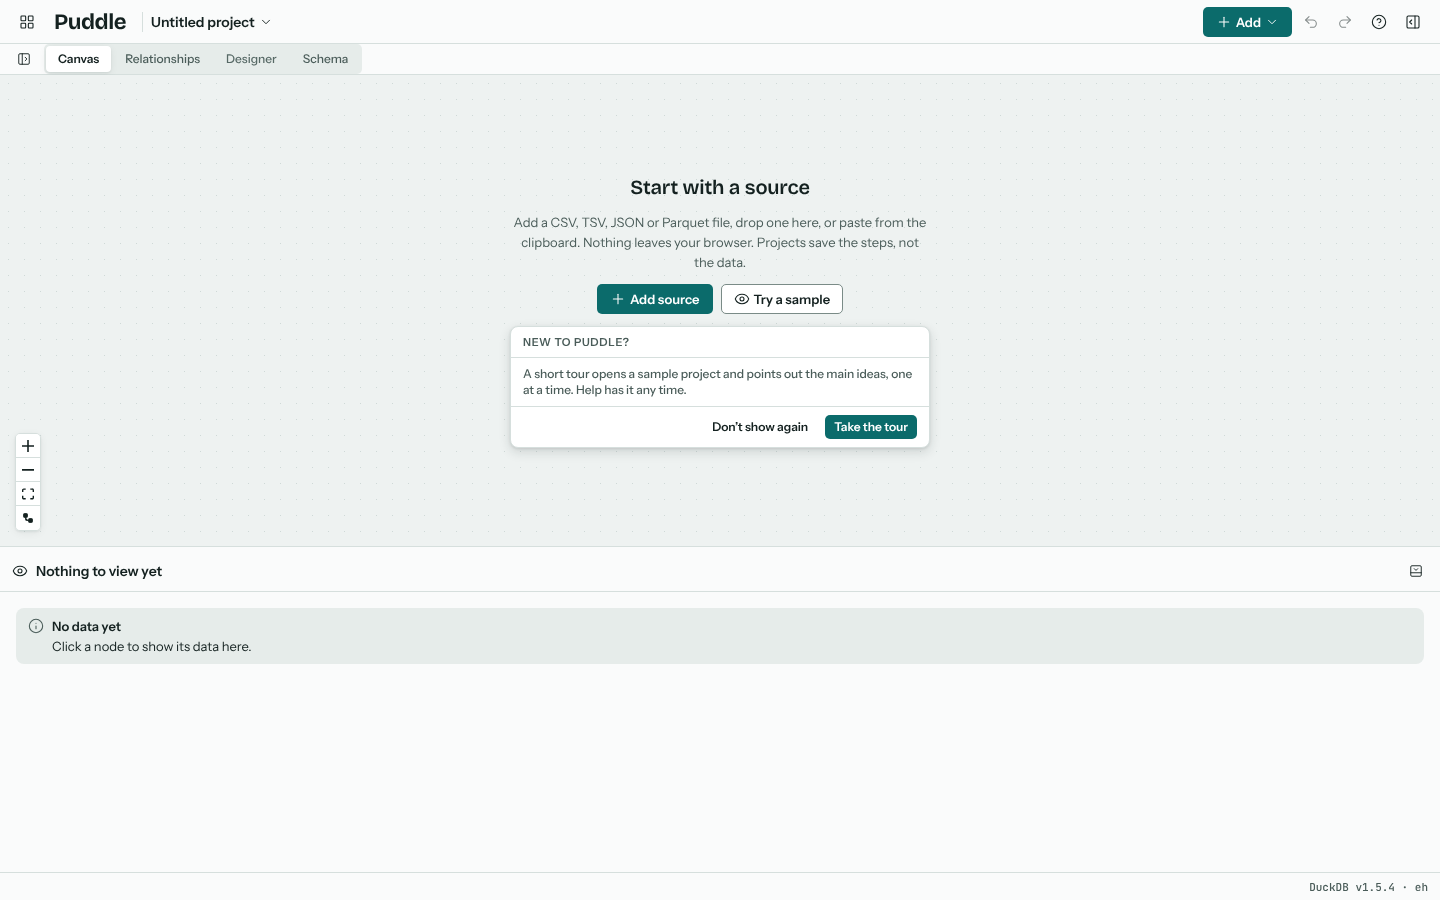
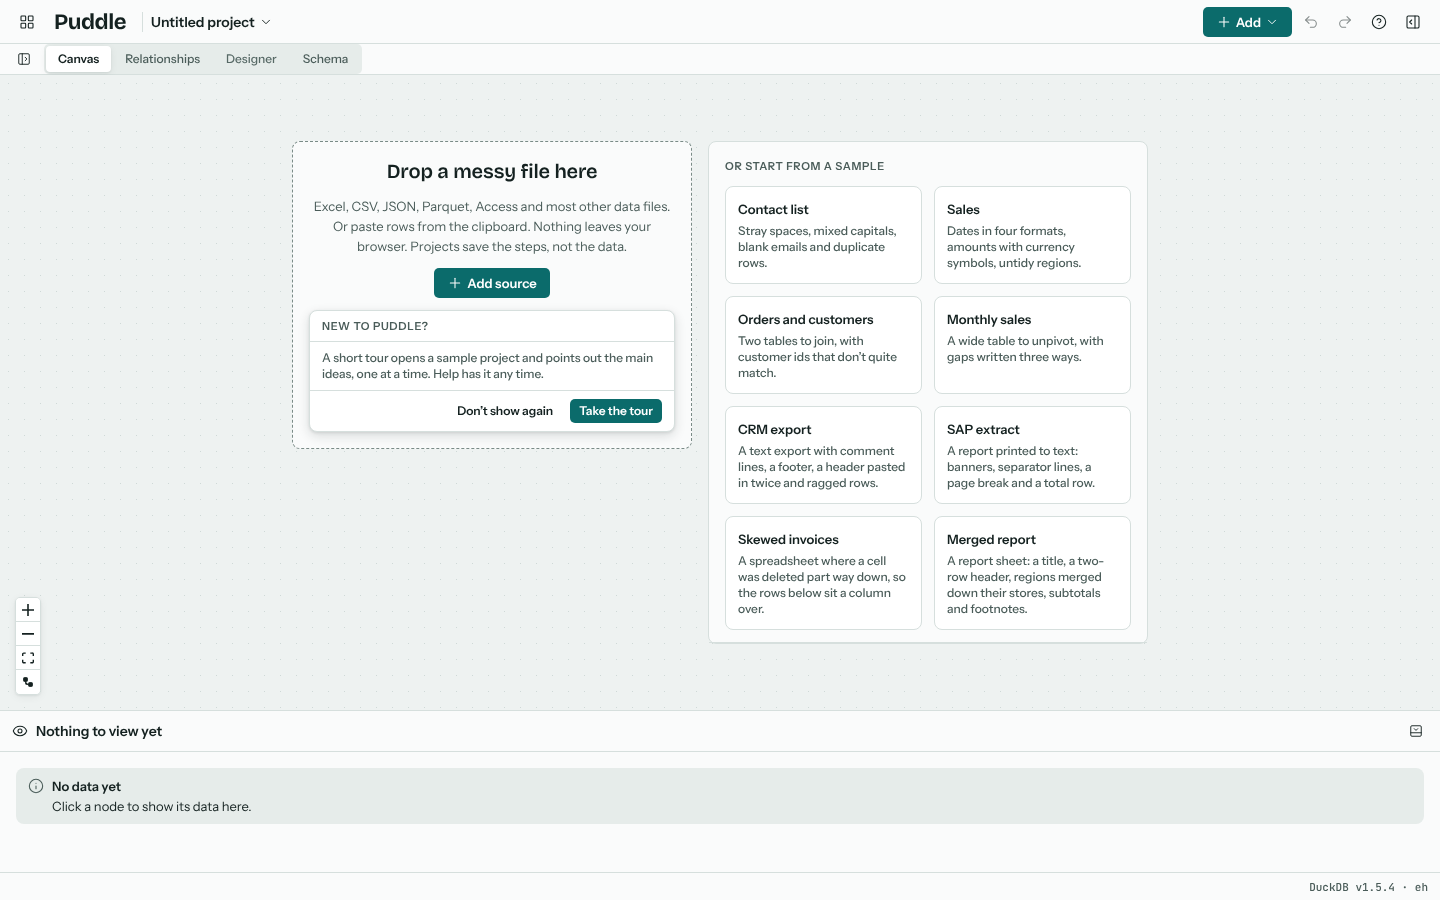
Make the empty canvas a welcome: a drop zone, truthful formats and the samples
The empty canvas said "Add a CSV, TSV, JSON or Parquet file" though the app
reads about eighteen formats, and the samples sat behind a button and a
dialog. It is now a drop zone that names the formats from the source format
list (Excel first, "and most other data files"), with the eight samples as
cards beside it. The results panel is only as tall as its message while the
project is empty, so the welcome has the room.

Closes #288

Claude-Session: https://claude.ai/code/session_01PQC6xnXLdbdaz3RyRgBCms

diff --git a/src/samples/SamplePicker.tsx b/src/samples/SamplePicker.tsx
@@ -1,8 +1,7 @@
 import { useState } from 'react';
-import { Dialog, Section, StatusBadge } from '../ui';
+import { Section, StatusBadge } from '../ui';
 import { SAMPLES, type Sample } from './catalog';
 import { openSampleOrSay } from './open';
-import { openSamplesDialog, useSamplesDialog } from './samplesDialog';
 
 /** Each card's cover blocks, in the brand cover's colours, turned round so no two samples look alike. */
 const BLOCKS = ['fill-brand', 'fill-accent', 'fill-brand-tint', 'fill-accent-tint', 'fill-ink'];
@@ -27,7 +26,7 @@ function SampleCover({ index }: { index: number }) {
   );
 }
 
-function SampleCard({ sample, index, busy, onOpen }: { sample: Sample; index: number; busy: boolean; onOpen: (s: Sample) => void }) {
+function SampleCard({ sample, index, busy, compact, onOpen }: { sample: Sample; index: number; busy: boolean; compact: boolean; onOpen: (s: Sample) => void }) {
   return (
     <button
       type="button"
@@ -36,11 +35,11 @@ function SampleCard({ sample, index, busy, onOpen }: { sample: Sample; index: nu
       disabled={busy}
       onClick={() => onOpen(sample)}
     >
-      <SampleCover index={index} />
+      {!compact && <SampleCover index={index} />}
       <span className="flex flex-col gap-1 p-3">
         <span className="flex items-center justify-between gap-2">
           <span className="text-body-strong">{sample.title}</span>
-          <StatusBadge>Sample</StatusBadge>
+          {!compact && <StatusBadge>Sample</StatusBadge>}
         </span>
         <span className="text-label text-ink-muted">{sample.blurb}</span>
       </span>
@@ -48,37 +47,27 @@ function SampleCard({ sample, index, busy, onOpen }: { sample: Sample; index: nu
   );
 }
 
-/** The sample cards: one click opens a sample as a new project. Shared by the home screen and the empty canvas. */
-export function SamplePicker({ title = 'Try a sample', onOpened }: { title?: string; onOpened?: () => void }) {
+/**
+ * The sample cards: one click opens a sample as a new project. Shared by the home screen and the empty canvas, where
+ * they are compact (no cover) so all of them fit beside the drop zone.
+ */
+export function SamplePicker({ title = 'Try a sample', compact = false }: { title?: string; compact?: boolean }) {
   const [busy, setBusy] = useState(false);
   const open = async (sample: Sample) => {
     setBusy(true);
-    onOpened?.();
     await openSampleOrSay(sample);
     setBusy(false);
   };
   return (
     <Section title={title}>
-      <p className="text-label text-ink-muted">Small, deliberately messy datasets that ship with Puddle, each with a note on what’s wrong. They work offline too.</p>
+      {!compact && <p className="text-label text-ink-muted">Small, deliberately messy datasets that ship with Puddle, each with a note on what’s wrong. They work offline too.</p>}
       <div className="grid grid-cols-2 gap-3" role="list" aria-label="Samples">
         {SAMPLES.map((s, i) => (
           <div key={s.id} role="listitem" className="flex">
-            <SampleCard sample={s} index={i} busy={busy} onOpen={(x) => void open(x)} />
+            <SampleCard sample={s} index={i} busy={busy} compact={compact} onOpen={(x) => void open(x)} />
           </div>
         ))}
       </div>
     </Section>
-  );
-}
-
-/** The sample picker as a dialog, from the empty canvas. */
-export function SamplesDialog() {
-  const open = useSamplesDialog((s) => s.open);
-  if (!open) return null;
-  const close = () => openSamplesDialog(false);
-  return (
-    <Dialog title="Try a sample" onClose={close} className="w-[640px] max-w-full">
-      <SamplePicker title="Samples" onOpened={close} />
-    </Dialog>
   );
 }

diff --git a/src/canvas/Canvas.tsx b/src/canvas/Canvas.tsx
@@ -65,7 +65,8 @@ import { shortcutText, withShortcut } from '../app/shortcuts';
 import { anyNodeOffscreen } from './minimap';
 import { viewNode } from '../results/pin';
 import { hostOf } from '../sources/url';
-import { openSamplesDialog } from '../samples/samplesDialog';
+import { SamplePicker } from '../samples/SamplePicker';
+import { welcomeFormats } from '../sources/formats';
 import { TourOffer } from '../tour/TourOffer';
 import { CANVAS_ARIA, nodeLabel, wireLabel } from './a11y';
 import { formatLabel, sourceFormatLabel } from './formatLabel';
@@ -657,17 +658,19 @@ export function Canvas({ onAddSource, onLayout }: { onAddSource: () => void; onL
       </ReactFlow>
 
       {project.nodes.length === 0 && (
-        <div className="pointer-events-none absolute inset-0 grid place-items-center">
-          <div className="pointer-events-auto flex max-w-[420px] flex-col items-center gap-3 text-center">
-            <h2 className="font-display text-title text-ink">Start with a source</h2>
-            <p className="text-ink-muted">
-              Add a CSV, TSV, JSON or Parquet file, drop one here, or paste from the clipboard. Nothing leaves your browser. Projects save the steps, not the data.
-            </p>
-            <div className="flex gap-2">
+        <div className="pointer-events-none absolute inset-0 overflow-auto p-4" data-testid="welcome">
+          <div className="pointer-events-auto mx-auto flex min-h-full max-w-[920px] flex-wrap content-center items-start justify-center gap-4">
+            <div className={`puddle-welcome__drop flex w-[400px] max-w-full flex-col items-center gap-3 rounded-md p-4 text-center ${dropping ? 'is-dropping' : ''}`}>
+              <h2 className="font-display text-title text-ink">Drop a messy file here</h2>
+              <p className="text-ink-muted">
+                {welcomeFormats()}. Or paste rows from the clipboard. Nothing leaves your browser. Projects save the steps, not the data.
+              </p>
               <Button variant="primary" icon="plus" onClick={onAddSource}>Add source</Button>
-              <Button variant="secondary" icon="eye" onClick={() => openSamplesDialog()}>Try a sample</Button>
+              <TourOffer />
             </div>
-            <TourOffer />
+            <div className="w-[440px] max-w-full rounded-md border border-line bg-surface-panel" data-testid="welcome-samples">
+              <SamplePicker title="Or start from a sample" compact />
+            </div>
           </div>
         </div>
       )}

diff --git a/e2e/samples.spec.ts b/e2e/samples.spec.ts
@@ -9,12 +9,13 @@ const projectMenu = async (page: Page, item: string) => {
 
 test('a sample opens from the empty canvas as a new project, with its data and its note', async ({ page }) => {
   await openApp(page);
-  await page.getByRole('button', { name: 'Try a sample' }).click();
-  const dialog = page.getByRole('dialog', { name: 'Try a sample' });
-  await expect(dialog.getByRole('listitem')).toHaveCount(8);
-  await dialog.getByTestId('sample-contacts').click();
+  // The empty canvas names what it reads and shows every sample as a card beside the drop zone.
+  await expect(page.getByTestId('welcome')).toContainText('Excel, CSV, JSON, Parquet, Access and most other data files');
+  const samples = page.getByTestId('welcome-samples');
+  await expect(samples.getByRole('listitem')).toHaveCount(8);
+  await samples.getByTestId('sample-contacts').click();
 
-  await expect(dialog).toHaveCount(0);
+  await expect(page.getByTestId('welcome')).toHaveCount(0);
   await expect(page.getByTestId('project-name')).toHaveText('Sample: contact list');
   await expect(node(page, 'contacts.csv')).toHaveAttribute('data-status', 'ok', { timeout: 20_000 });
   await expect(node(page, 'contacts.csv')).toContainText('Sample · CSV');
@@ -34,8 +35,7 @@ test('a sample opens from the empty canvas as a new project, with its data and i
 
 test('an Excel sample reads the workbook from beside the app, shows its issues, and reads it again on reload', async ({ page }) => {
   await openApp(page);
-  await page.getByRole('button', { name: 'Try a sample' }).click();
-  await page.getByRole('dialog', { name: 'Try a sample' }).getByTestId('sample-merged').click();
+  await page.getByTestId('welcome-samples').getByTestId('sample-merged').click();
   await expect(page.getByTestId('project-name')).toHaveText('Sample: merged report');
   await expect(node(page, 'merged.xlsx')).toHaveAttribute('data-status', 'ok', { timeout: 20_000 });
   await expect(node(page, 'merged.xlsx')).toContainText('Sample · Excel');

diff --git a/src/app/ResultsPanel.tsx b/src/app/ResultsPanel.tsx
@@ -6,8 +6,11 @@ import { withShortcut } from './shortcuts';
 const MIN = 120;
 const DEFAULT = 280;
 
-/** The results table dock: resizable from its top edge (drag or arrow keys) and collapsible (R). */
-export function ResultsPanel({ bar, children }: { bar: ReactNode; children: ReactNode }) {
+/**
+ * The results table dock: resizable from its top edge (drag or arrow keys) and collapsible (R). While there is nothing
+ * to show (`short`: an empty project) it is only as tall as its message, so the canvas's welcome has the room.
+ */
+export function ResultsPanel({ bar, short = false, children }: { bar: ReactNode; short?: boolean; children: ReactNode }) {
   const [height, setHeight] = useState(DEFAULT);
   const collapsed = !useSession((s) => s.resultsOpen);
   const setCollapsed = (c: boolean) => useSession.getState().setResultsOpen(!c);
@@ -32,7 +35,7 @@ export function ResultsPanel({ bar, children }: { bar: ReactNode; children: Reac
 
   return (
     <section className="flex flex-col border-t border-line bg-surface-panel" aria-label="Results" data-testid="results-panel" data-collapsed={collapsed}>
-      {!collapsed && (
+      {!collapsed && !short && (
         <div
           role="separator"
           aria-orientation="horizontal"
@@ -61,7 +64,7 @@ export function ResultsPanel({ bar, children }: { bar: ReactNode; children: Reac
         />
       </div>
       {!collapsed && (
-        <div className="min-h-0 overflow-hidden" style={{ height }}>
+        <div className="min-h-0 overflow-hidden" style={{ height: short ? MIN : height }} data-short={short}>
           {children}
         </div>
       )}

diff --git a/src/app/AppShell.tsx b/src/app/AppShell.tsx
@@ -32,7 +32,6 @@ import { useSchemaTableSync } from '../schemaTables/state';
 import { LOAD_FAILURES, projectSchema } from '../compiler';
 import { useRewrittenSources } from '../sources/rewrite';
 import { useXmlSources } from '../sources/xml';
-import { SamplesDialog } from '../samples/SamplePicker';
 import { openUserGuide, startTaxiTutorial } from '../samples/open';
 import { Tour } from '../tour/Tour';
 import { TOUR_STOPS } from '../tour/stops';
@@ -476,7 +475,7 @@ export function AppShell() {
           )}
         </div>
 
-        <ResultsPanel bar={<ResultsTitle />}>
+        <ResultsPanel bar={<ResultsTitle />} short={project.nodes.length === 0 && !consoleOpen}>
           <div className="flex h-full min-h-0">
             <SqlDockPane />
             <div className="flex h-full min-h-0 min-w-0 flex-1 flex-col">
@@ -496,7 +495,6 @@ export function AppShell() {
       <ODataDialog />
       <ConnectionDialog />
       <DocumentSchemaDialog />
-      <SamplesDialog />
       <ShortcutsDialog />
       <TemplateDialogs />
       <RecipeDialogs />

diff --git a/src/canvas/canvas.css b/src/canvas/canvas.css
@@ -21,6 +21,9 @@
 .puddle-canvas .react-flow__attribution { display: none; }
 .puddle-wire-popover { position: absolute; z-index: var(--z-popover); pointer-events: none; }
 .puddle-canvas.is-dropping { box-shadow: inset 0 0 0 2px var(--brand); }
+/* The empty canvas's drop zone: a dashed outline that says where a file can land. */
+.puddle-welcome__drop { border: 1px dashed var(--line-strong); background: var(--surface-panel); }
+.puddle-welcome__drop.is-dropping { border-color: var(--brand); background: var(--surface-hover); }
 .puddle-canvas .puddle-port-label { position: absolute; right: calc(100% + var(--space-1)); bottom: 100%; pointer-events: none; }
 /* Where a rule's reference to another node starts and ends: never connectable, never seen. */
 .puddle-canvas .react-flow__handle.puddle-ref-handle { opacity: 0; pointer-events: none; min-width: 0; min-height: 0; width: 0; height: 0; border: 0; }

diff --git a/src/sources/formats.ts b/src/sources/formats.ts
@@ -4,3 +4,9 @@ import type { SourceFormat } from '../model';
 /** The formats a file on disk can be read as, for the Format picker and the Format field. */
 export const FILE_FORMATS: SourceFormat[] = ['csv', 'tsv', 'fixed', 'pipes', 'log', 'json', 'ndjson', 'geojson', 'yaml', 'toml', 'ini', 'parquet', 'arrow', 'xlsx', 'xml', 'word', 'pdf', 'access'];
 export const FORMAT_OPTIONS = FILE_FORMATS.map((f) => ({ value: f, label: formatLabel(f) }));
+
+/** The formats the empty canvas names, the commonest first; the rest are "most other data files". */
+export const WELCOME_FORMATS: SourceFormat[] = ['xlsx', 'csv', 'json', 'parquet', 'access'];
+
+/** "Excel, CSV, JSON, Parquet, Access and most other data files": named from the formats that are read. */
+export const welcomeFormats = (formats: SourceFormat[] = WELCOME_FORMATS) => `${formats.map(formatLabel).join(', ')} and most other data files`;

diff --git a/src/sources/formats.test.ts b/src/sources/formats.test.ts
@@ -1,0 +1,19 @@
+import { describe, expect, it } from 'vitest';
+import { FILE_FORMATS, WELCOME_FORMATS, welcomeFormats } from './formats';
+import { ACCEPT, knownFormat } from './detect';
+
+describe('the formats the empty canvas names', () => {
+  it('are all formats a file can be read as', () => {
+    for (const f of WELCOME_FORMATS) expect(FILE_FORMATS).toContain(f);
+  });
+
+  it('each have an extension the file chooser accepts', () => {
+    const accepted = ACCEPT.split(',').map((ext) => knownFormat(`file${ext}`));
+    for (const f of WELCOME_FORMATS) expect(accepted).toContain(f);
+  });
+
+  it('are named as the rest of the app names them, Excel first, and admit there are more', () => {
+    expect(welcomeFormats()).toBe('Excel, CSV, JSON, Parquet, Access and most other data files');
+    expect(WELCOME_FORMATS.length).toBeLessThan(FILE_FORMATS.length);
+  });
+});

diff --git a/e2e/shape.spec.ts b/e2e/shape.spec.ts
@@ -3,8 +3,7 @@ import { expectRows, node, openApp, selectNode } from './helpers/app';
 
 test('the CRM export sample opens with its comment lines and footer skipped, and Fix all leaves the clean table', async ({ page }) => {
   await openApp(page);
-  await page.getByRole('button', { name: 'Try a sample' }).click();
-  await page.getByRole('dialog', { name: 'Try a sample' }).getByTestId('sample-crm').click();
+  await page.getByTestId('welcome-samples').getByTestId('sample-crm').click();
   await expect(page.getByTestId('project-name')).toHaveText('Sample: CRM export');
   await expect(node(page, 'messy.txt')).toHaveAttribute('data-status', 'ok', { timeout: 20_000 });
   // 44 customers and the header pasted in again; the two comment lines and the row count never reach the table.

diff --git a/e2e/a11y.spec.ts b/e2e/a11y.spec.ts
@@ -29,10 +29,8 @@ for (const theme of ['light', 'dark'] as const) {
       await openApp(page);
       await expectAccessible(page, 'the empty canvas');
 
-      await page.getByRole('button', { name: 'Try a sample' }).click();
-      await expect(page.getByRole('dialog', { name: 'Try a sample' })).toBeVisible();
-      await expectAccessible(page, 'the samples dialog');
-      await page.keyboard.press('Escape');
+      // The samples are cards on the empty canvas, checked with it above.
+      await expect(page.getByTestId('welcome-samples').getByRole('listitem')).toHaveCount(8);
 
       await page.getByRole('button', { name: 'Add', exact: true }).click();
       await page.getByRole('menuitem', { name: /From URL/ }).click();

diff --git a/docs/screenshots/capture.spec.ts b/docs/screenshots/capture.spec.ts
@@ -15,9 +15,8 @@ test('getting started', async ({ page }) => {
 
 test('samples and the screen', async ({ page }) => {
   await start(page);
-  await page.getByRole('button', { name: 'Try a sample' }).click();
-  await shot(page, 'start-samples', page.getByRole('dialog', { name: 'Try a sample' }));
-  await page.getByRole('dialog', { name: 'Try a sample' }).getByTestId('sample-contacts').click();
+  await shot(page, 'start-samples', page.getByTestId('welcome-samples'));
+  await page.getByTestId('welcome-samples').getByTestId('sample-contacts').click();
   await expect(node(page, 'contacts.csv')).toHaveAttribute('data-status', 'ok', { timeout: 20_000 });
   await expectRows(page, 53);
   await shot(page, 'start-sample-open');

diff --git a/e2e/projects.spec.ts b/e2e/projects.spec.ts
@@ -92,7 +92,7 @@ test('projects can be created, renamed, duplicated and deleted from the home scr
   // A new project opens empty; going home lists both once it has content.
   await page.getByRole('button', { name: 'New project' }).click();
   await expect(page.getByTestId('project-name')).toHaveText('Untitled project');
-  await expect(page.getByRole('heading', { name: 'Start with a source' })).toBeVisible();
+  await expect(page.getByRole('heading', { name: 'Drop a messy file here' })).toBeVisible();
   await projectMenu(page, 'All projects');
   await page.getByTestId('project-Customers').getByRole('button').first().click();
   await expect(page.getByTestId('project-name')).toHaveText('Customers');
